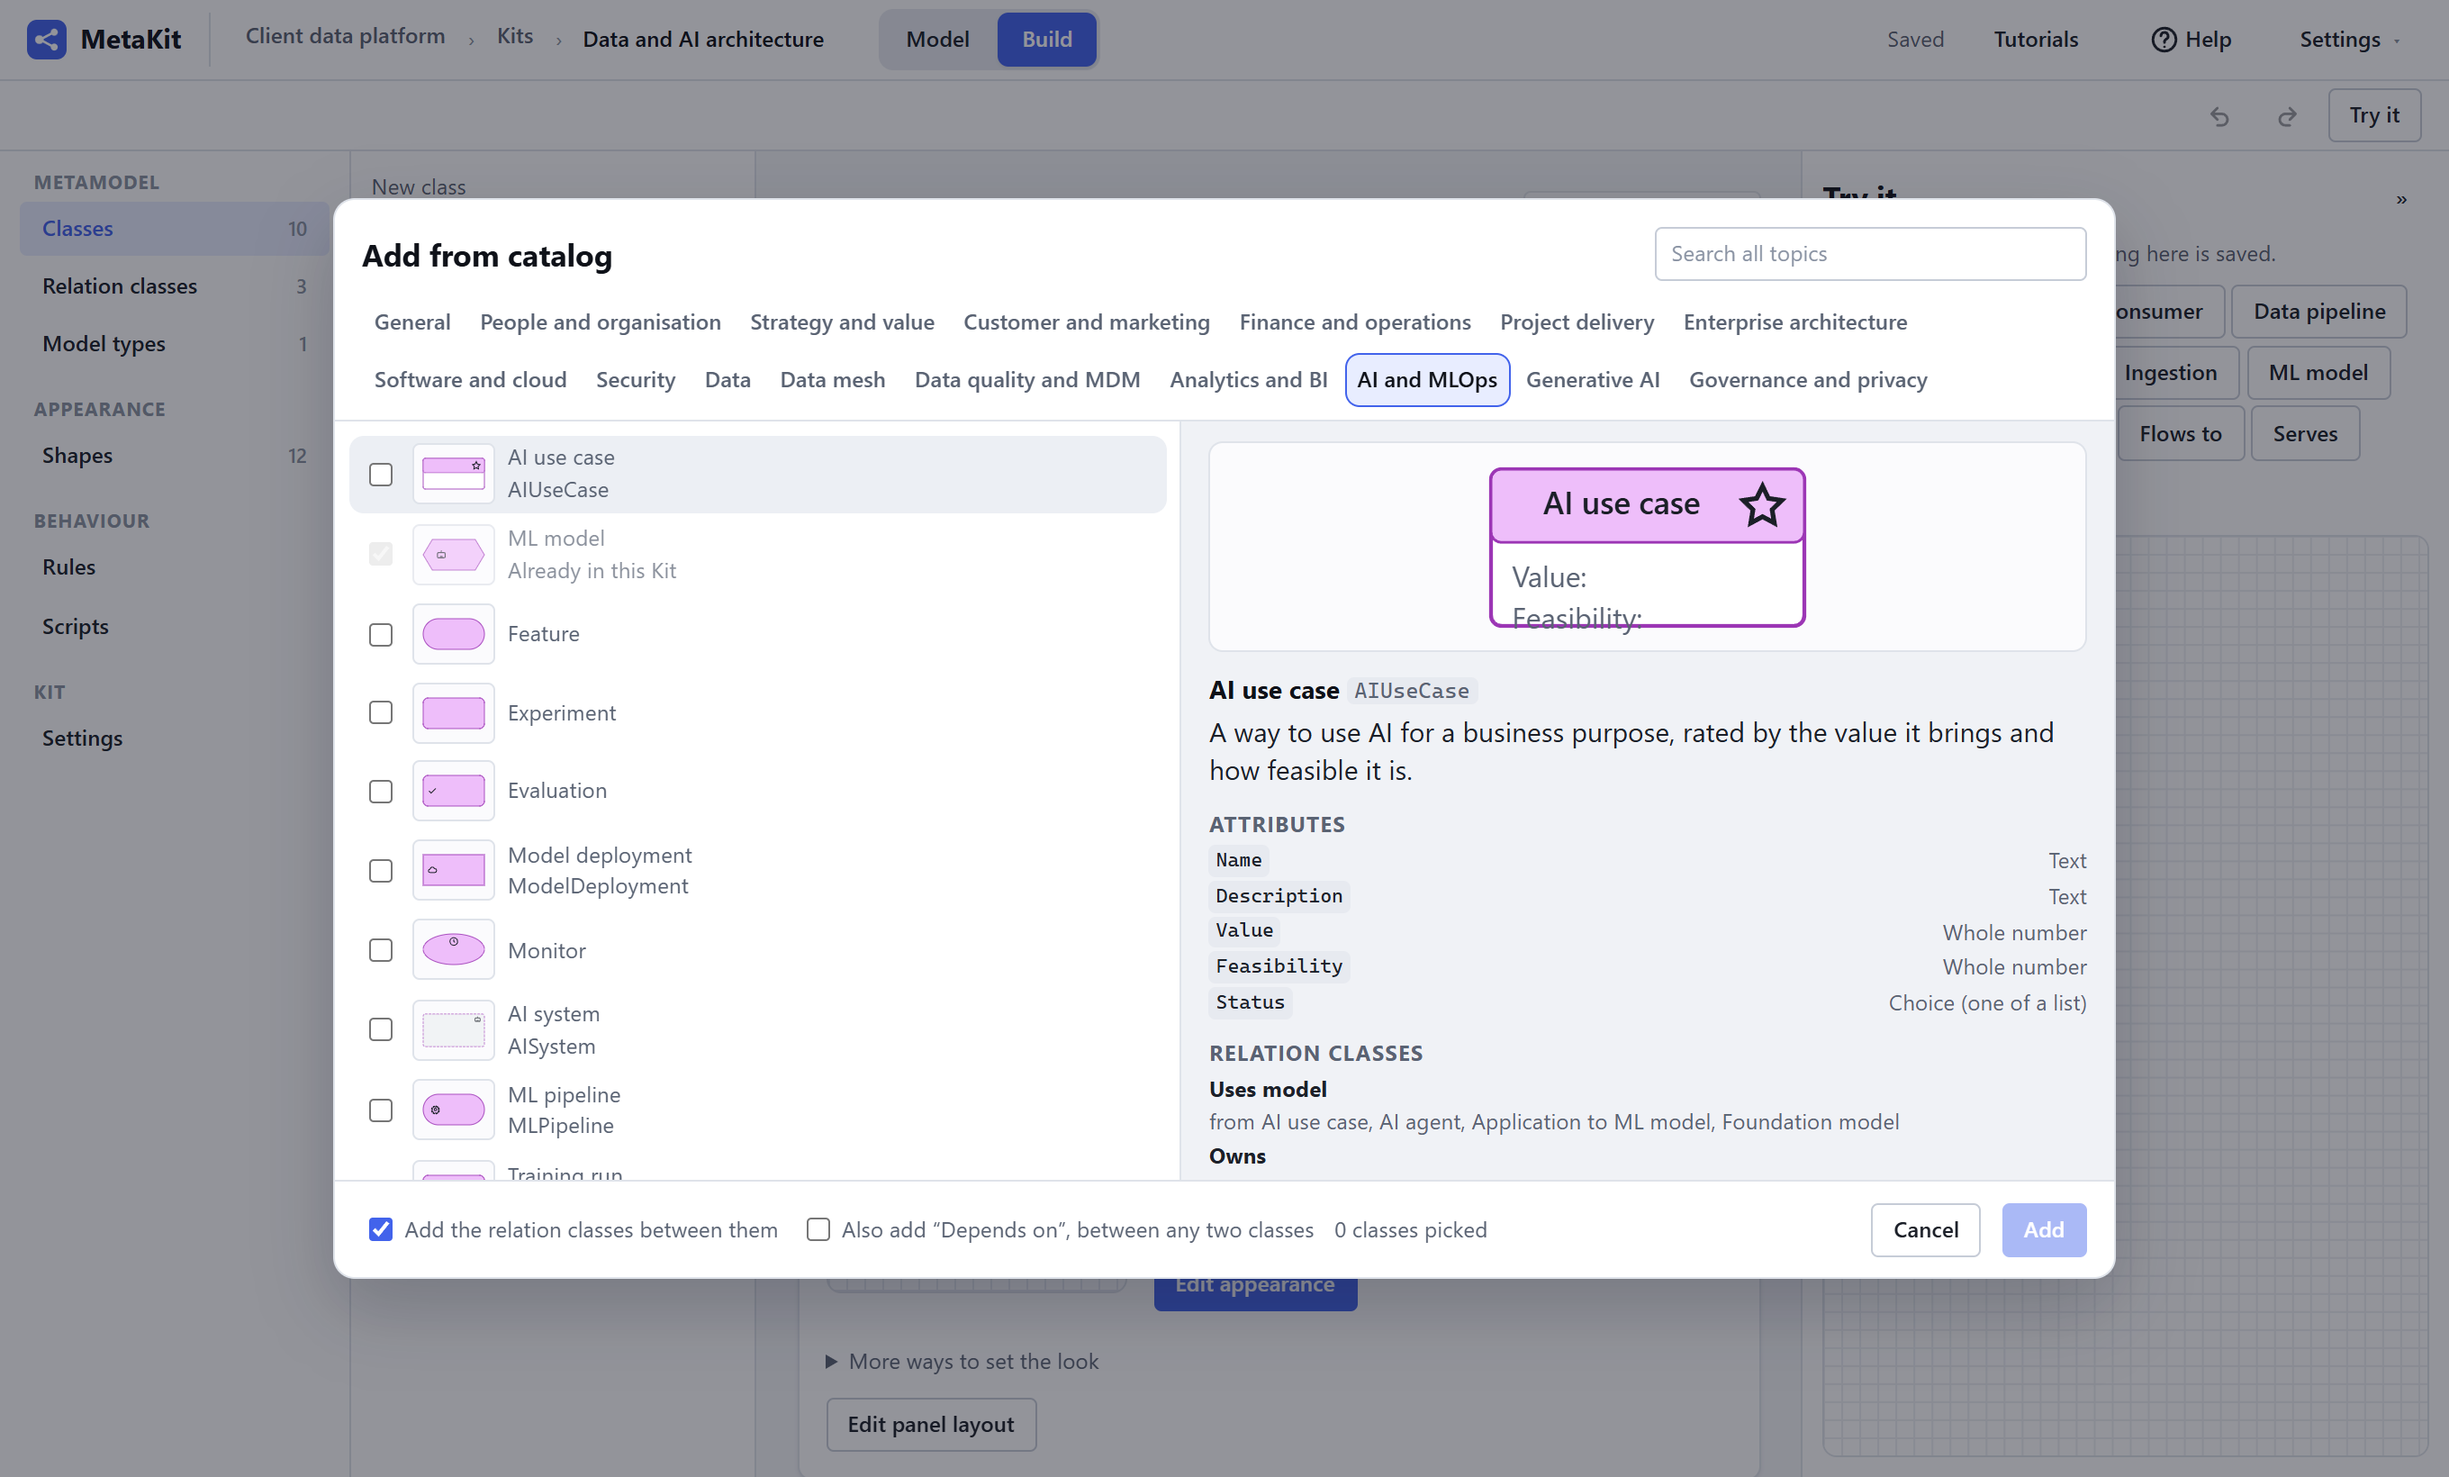
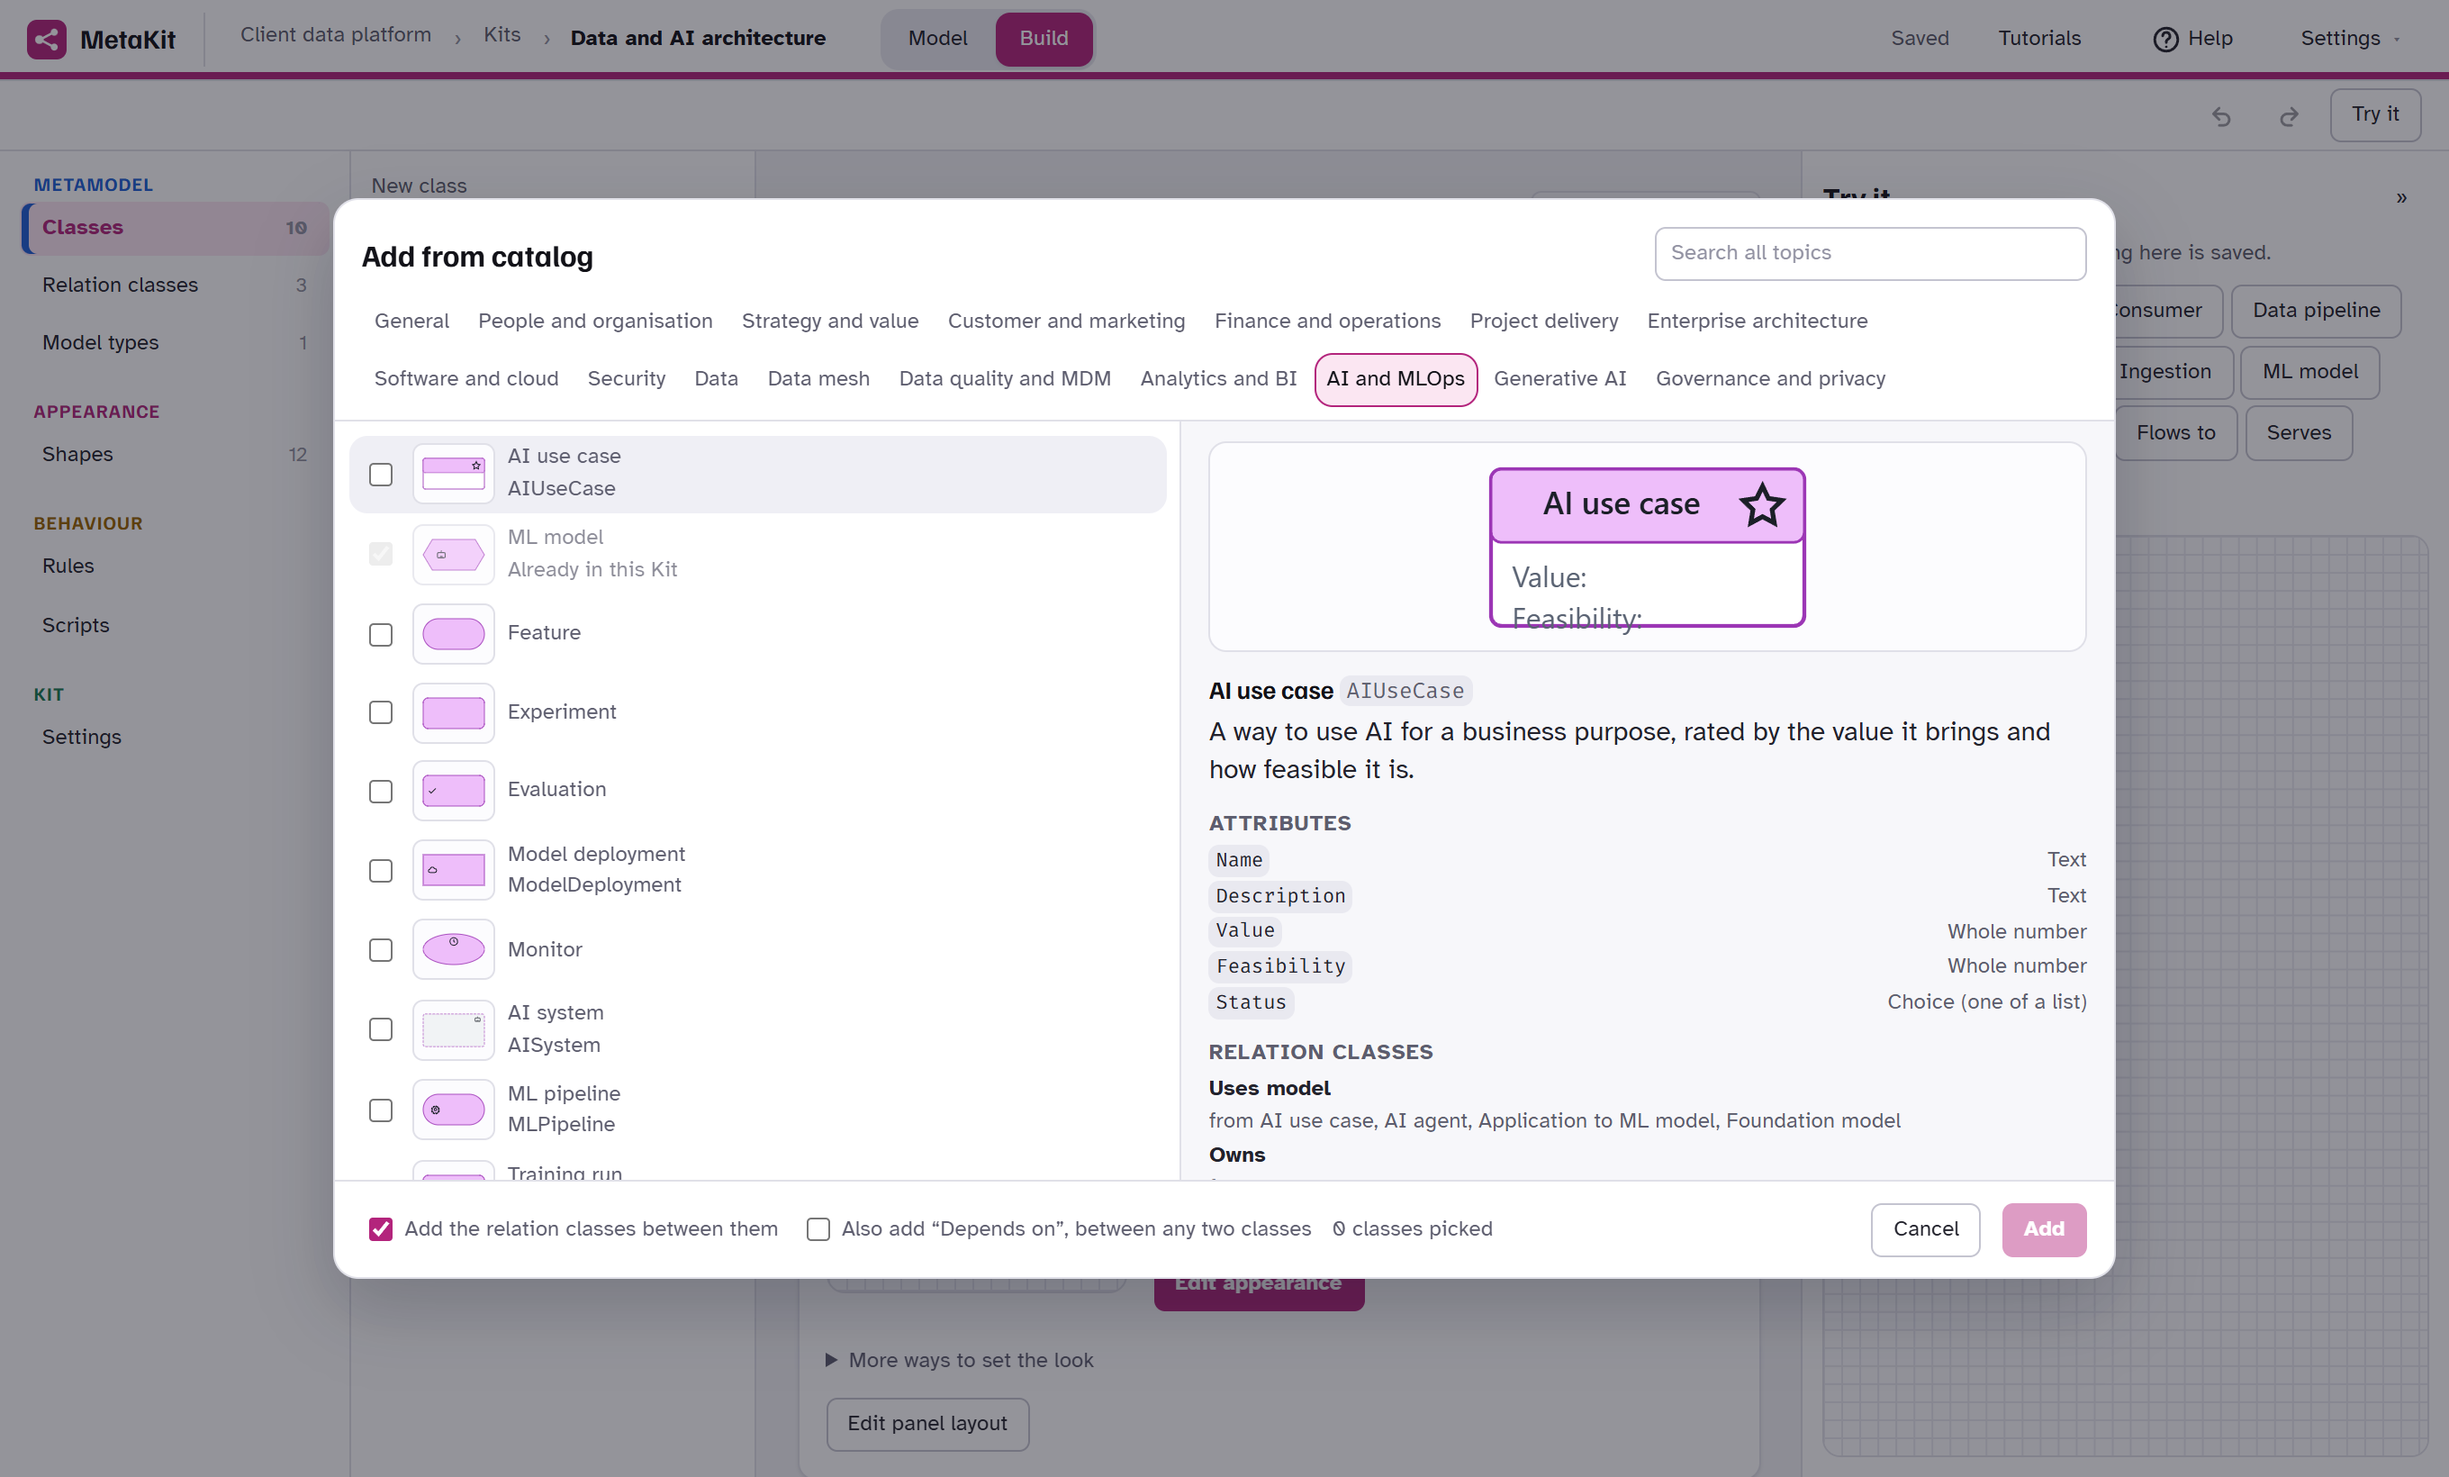
README screenshots in the Workshop look; tick the looks tasks

diff --git a/openspec/changes/looks/tasks.md b/openspec/changes/looks/tasks.md
@@ -4,25 +4,25 @@ One PR (`feat/looks`), stacked on the open UI and bug-fix PRs.
 
 ## 1. Looks and tokens
 
-- [ ] 1.1 `looks.ts` with the four looks (light and dark tokens, fonts, name, description); Classic equals today's values.
-- [ ] 1.2 `build-looks.ts` and `pnpm looks:build` writing `looks.css`; `theme.css` keeps base styles and imports it.
-- [ ] 1.3 `looks.test.ts`: generated CSS matches, every token defined, contrast checks.
+- [x] 1.1 `looks.ts` with the four looks (light and dark tokens, fonts, name, description); Classic equals today's values.
+- [x] 1.2 `build-looks.ts` and `pnpm looks:build` writing `looks.css`; `theme.css` keeps base styles and imports it.
+- [x] 1.3 `looks.test.ts`: generated CSS matches, every token defined, contrast checks.
 
 ## 2. Fonts
 
-- [ ] 2.1 WOFF2 files and OFL licences under `theme/fonts/`, plus `fonts.css`.
-- [ ] 2.2 CI bundle report lists fonts separately.
+- [x] 2.1 WOFF2 files and OFL licences under `theme/fonts/`, plus `fonts.css`.
+- [x] 2.2 CI bundle report lists fonts separately.
 
 ## 3. Applying the look
 
-- [ ] 3.1 `theme.ts`: look id, storage, `setLook`, subscribers; `main.ts` applies it before mounting.
-- [ ] 3.2 `data-mode` on `<html>` from `App.svelte`.
-- [ ] 3.3 Components read the new tokens: TopBar, mode switch, BuildView groups, palette headings, base headings and primary buttons.
-- [ ] 3.4 Settings ▸ Look with `look-<id>` rows.
+- [x] 3.1 `theme.ts`: look id, storage, `setLook`, subscribers; `main.ts` applies it before mounting.
+- [x] 3.2 `data-mode` on `<html>` from `App.svelte`.
+- [x] 3.3 Components read the new tokens: TopBar, mode switch, BuildView groups, palette headings, base headings and primary buttons.
+- [x] 3.4 Settings ▸ Look with `look-<id>` rows.
 
 ## 4. Tests and docs
 
-- [ ] 4.1 Unit tests for the look controller; e2e: choose each look, reload keeps it, canvas colours follow, the top bar fits at 1280 × 720 in every look.
-- [ ] 4.2 Docs: `theme` → "Look and theme", `settings-menu`, quick tour, the "Help and settings" tour step.
-- [ ] 4.3 README screenshots in the default look.
-- [ ] 4.4 typecheck, lint, test, test:e2e, bench.
+- [x] 4.1 Unit tests for the look controller; e2e: choose each look, reload keeps it, canvas colours follow, the top bar fits at 1280 × 720 in every look.
+- [x] 4.2 Docs: `theme` → "Look and theme", `settings-menu`, quick tour, the "Help and settings" tour step.
+- [x] 4.3 README screenshots in the default look.
+- [x] 4.4 typecheck, lint, test, test:e2e, bench.
